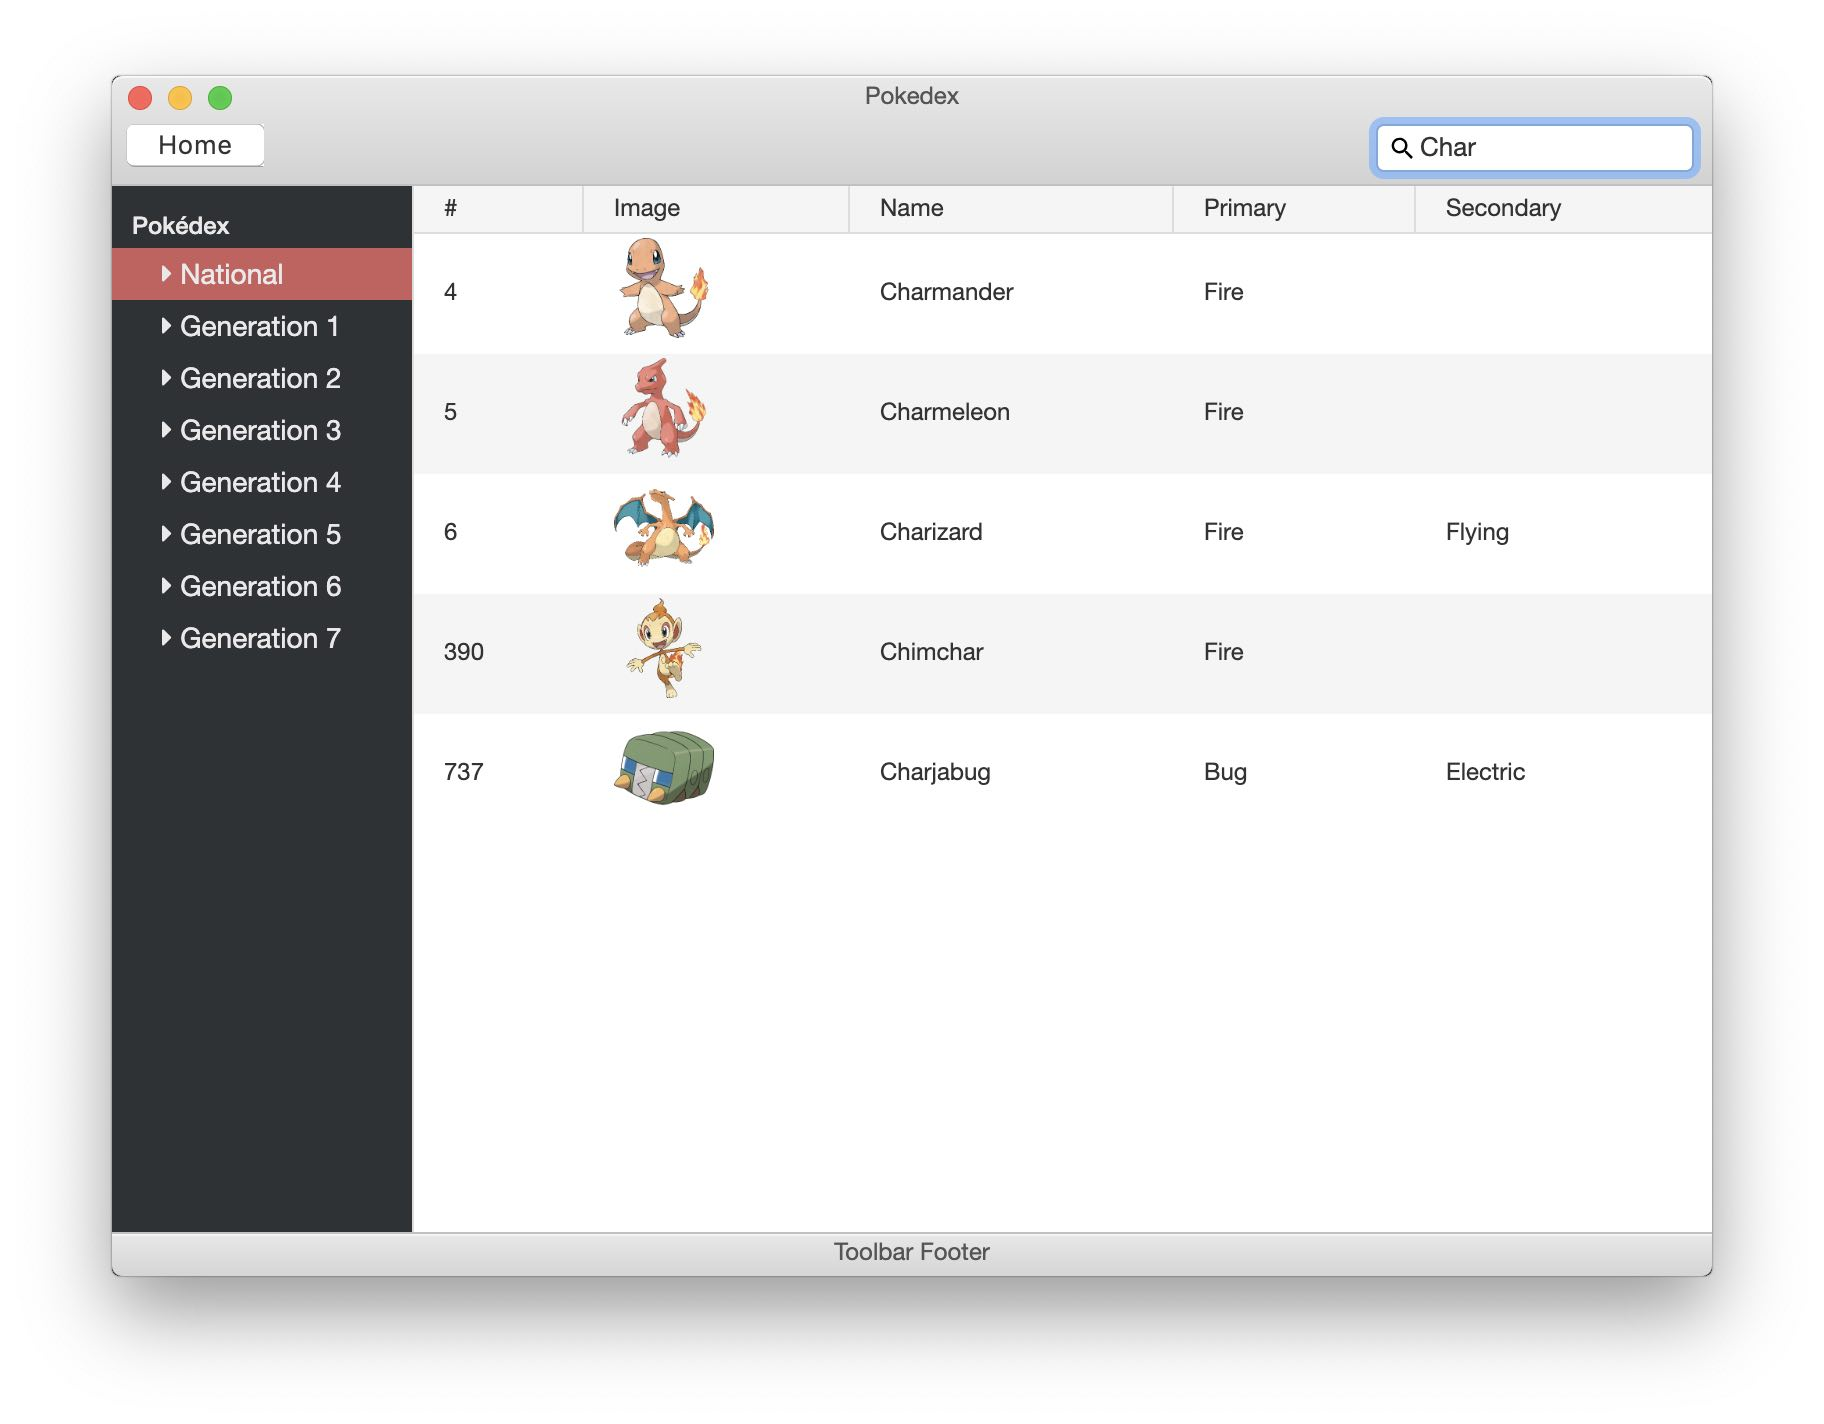
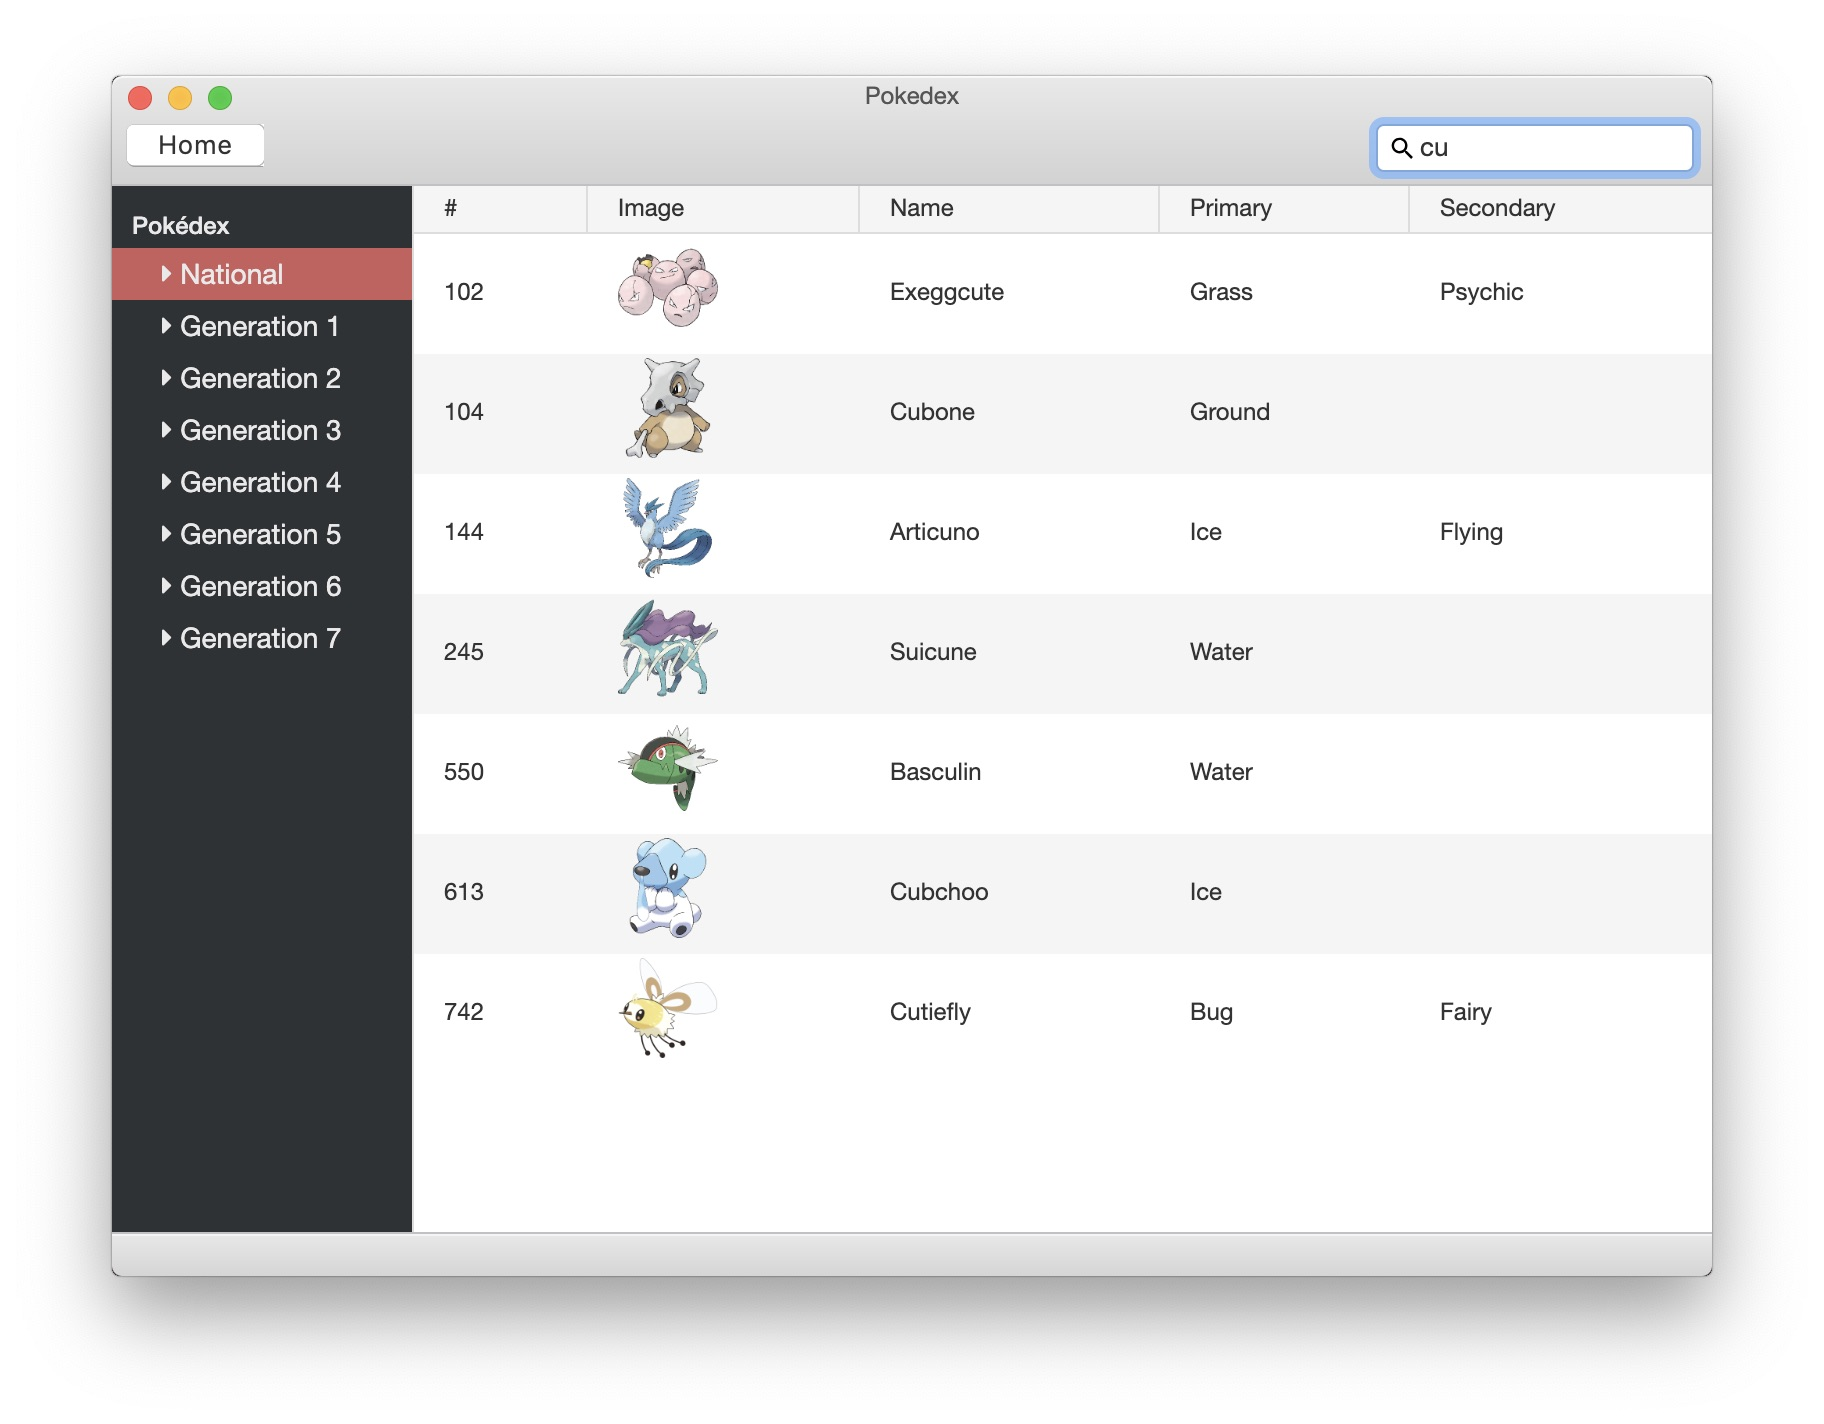
Updated recent projects

diff --git a/index.html b/index.html
@@ -24,7 +24,7 @@
                                 <h2 class="card-title name">Alexander Hambley</h2>
                                 <p class="card-text"> 
                                     Hi, I'm an MSc student at the University of Manchester, studying Advanced Computer 
-                                    Science with a focus on Digital Biology. </p>
+                                    Science with a focus on Software Engineering. My main interests are in more creative projects.</p>
                                 <p class="card-text"> 
                                     I was an intern at HeX Productions, and I am a first-class Computer Science 
                                     graduate from the University of Nottingham. </p>
@@ -45,11 +45,16 @@
                     <h2 class="section-header" id="list-item-curr-proj">Current Projects</h2>
                     <div>
                         <h3> MacOS Pokedex App </h3>
-                        <p> I'm currently working on a little Pokedex app for MacOS. It is built on Electron, and uses APIs such as csvtojson. 
-                            It also uses the PhotonKit UI library. </p>
-                        <img src="res/img/pokedex/ex1.jpg" class="img-fluid" alt="A screenshot of the Pokedex app showing the first 8 pokemon." style="width: 70%; height: auto; display: block; margin-left: auto; margin-right: auto;">
+                        <p> I'm currently working on a little Pokedex app for MacOS. The project was designed for me to learn more web technologies. Below is a video showcasing the app. </p>
+                        <div class="d-flex justify-content-center">
+                            <iframe width="560" height="315" src="https://www.youtube.com/embed/sd0xWhi44x8" frameborder="0" allow="accelerometer; autoplay; encrypted-media; gyroscope; picture-in-picture" allowfullscreen></iframe>
+                        </div>
+                        <p> The app is built on Electron, and uses APIs such as csvtojson. It also uses the PhotonKit UI library.</p>
+                        <img src="res/img/pokedex/ex1.jpg" class="img-fluid" alt="A screenshot of the Pokedex app showing the first handful pokemon." style="width: 70%; height: auto; display: block; margin-left: auto; margin-right: auto;">
                         <p> The app allows for users to search the entire Pokedex. Users can also choose to only show the pokemon from specific generations:</p>
-                        <img src="res/img/pokedex/ex2.jpg" class="img-fluid" alt="A screenshot of the Pokedex app showing the pokemon returned for the search 'char'" style="width: 70%; height: auto; display: block; margin-left: auto; margin-right: auto;">                        
+                        <img src="res/img/pokedex/ex2.jpg" class="img-fluid" alt="A screenshot of the Pokedex app showing the pokemon returned for a search." style="width: 70%; height: auto; display: block; margin-left: auto; margin-right: auto;">
+                        <p> The app also allows users to select a specific Pokemon and see more information about them.</p>
+                        <img src="res/img/pokedex/ex3.jpg" class="img-fluid" alt="A screenshot of the Pokedex app showing detailed informaton for Dragonite" style="width: 70%; height: auto; display: block; margin-left: auto; margin-right: auto;">                        
                         <p> The app is in development but can be found on GitHub:</p>
                         <div class="d-flex justify-content-center">
                             <a href="https://github.com/alexhambley/pokedexpro" class="btn btn-info">GitHub Link for Pokedex App</a>
